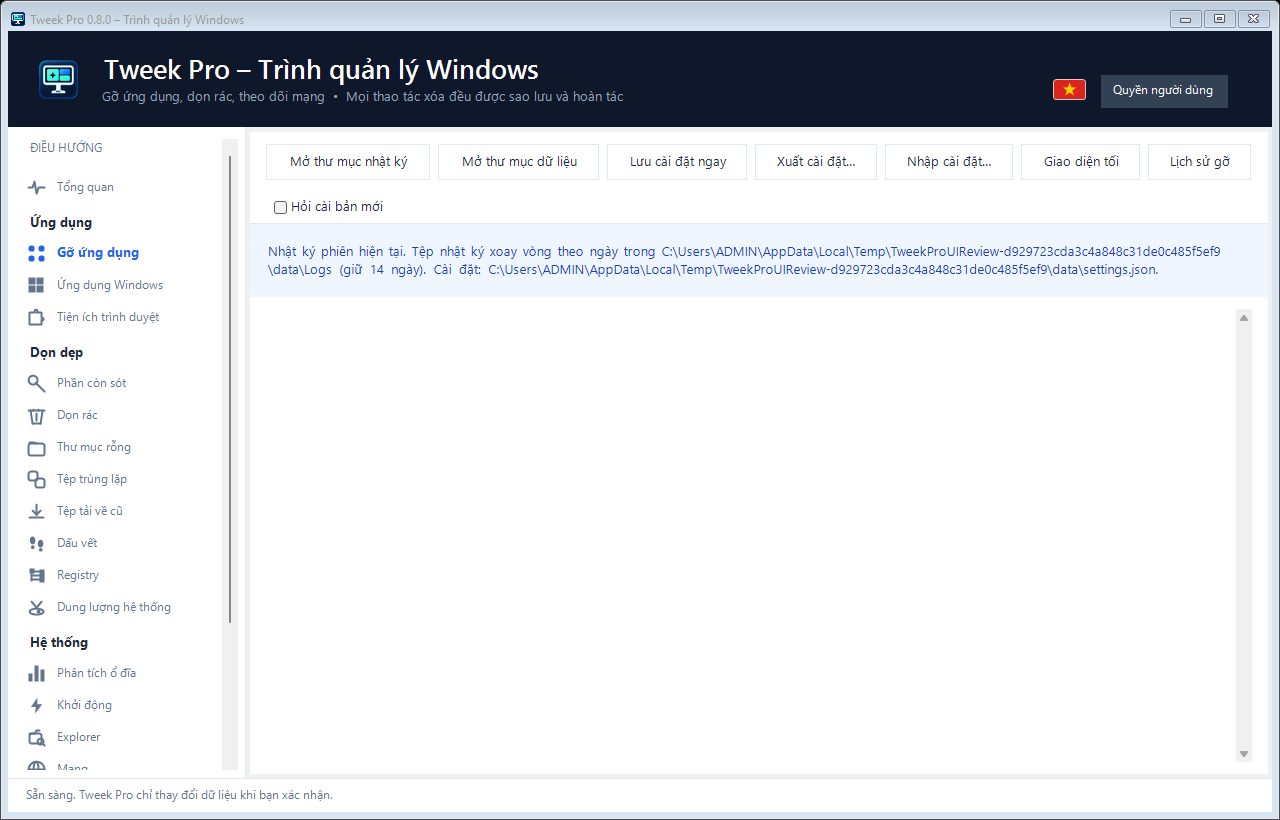
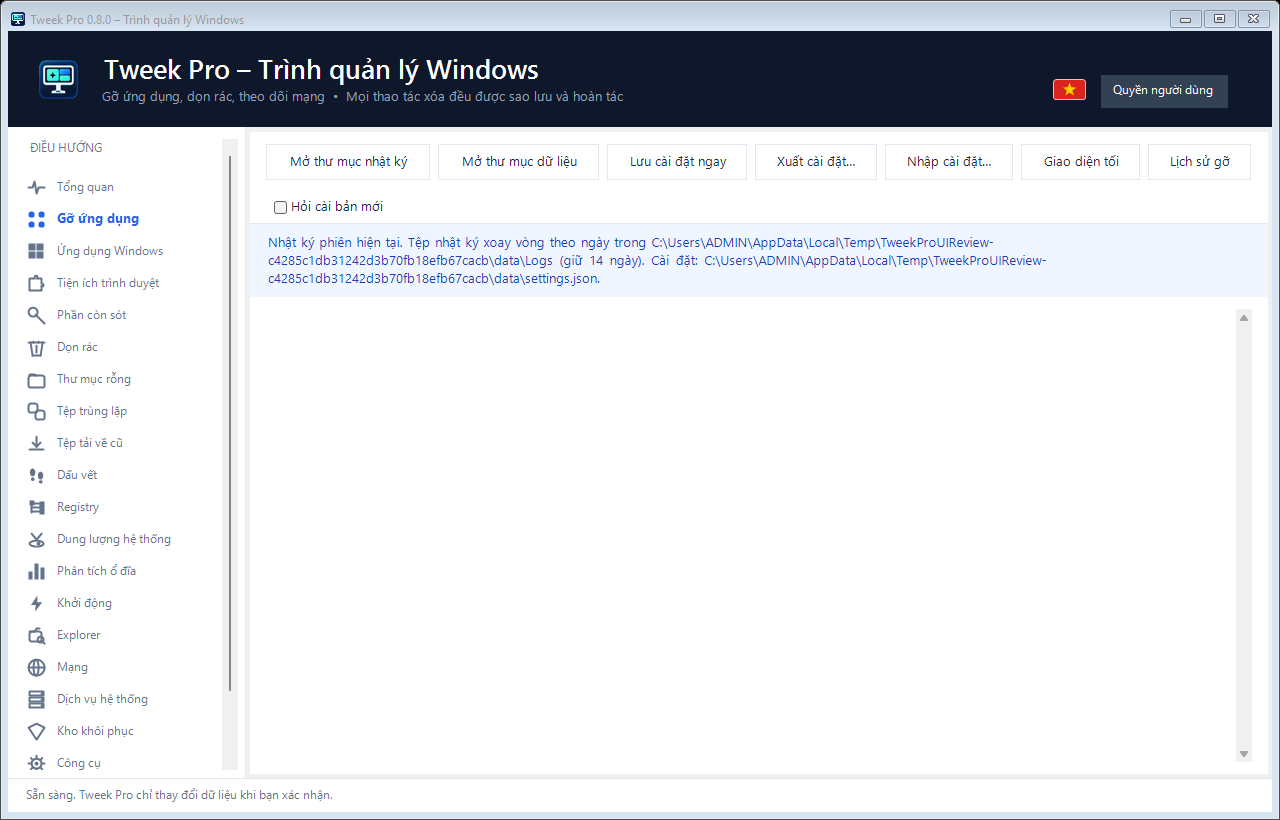
Flatten sidebar links without group headings

Changed region(s): [[0.0, 0.2439, 0.125, 0.9451], [0.1875, 0.2744, 0.9375, 0.3659]]

diff --git a/Navigation.cs b/Navigation.cs
@@ -5,13 +5,11 @@ using System.Linq;
 using System.Windows.Forms;
 
 namespace TweekPro {
- /// <summary>Keyboard-accessible grouped navigation backed by the existing tab pages.</summary>
+ /// <summary>Keyboard-accessible vertical navigation backed by the existing tab pages.</summary>
  public sealed class TabStrip:UserControl {
   readonly TabControl tabs;
   readonly FlowLayoutPanel menu=new FlowLayoutPanel();
   readonly Dictionary<TabPage,Button> links=new Dictionary<TabPage,Button>();
-  readonly Dictionary<int,FlowLayoutPanel> groups=new Dictionary<int,FlowLayoutPanel>();
-  readonly string[] names={"Ứng dụng","Dọn dẹp","Hệ thống"};
   public TabStrip(TabControl target){
    tabs=target;Dock=DockStyle.Left;Width=238;BackColor=Theme.Surface;Padding=new Padding(10,12,8,8);
    menu.Dock=DockStyle.Fill;menu.FlowDirection=FlowDirection.TopDown;menu.WrapContents=false;menu.AutoScroll=true;menu.BackColor=Theme.Surface;
@@ -32,12 +30,7 @@ namespace TweekPro {
    menu.SuspendLayout();
    var caption=new Label{Text=Core.L.T("ĐIỀU HƯỚNG"),ForeColor=Theme.Muted,Font=Theme.Small,Height=28,Margin=new Padding(10,0,0,4)};menu.Controls.Add(caption);
    foreach(TabPage p in tabs.TabPages)if(Branding.GlyphKey(p.Text)=="pulse")AddLink(menu,p);
-   for(int i=0;i<names.Length;i++){
-    var heading=new Label{Text=Core.L.T(names[i]),Height=28,TextAlign=ContentAlignment.MiddleLeft,Font=Theme.Strong,ForeColor=Theme.Text,BackColor=Theme.Surface,Margin=new Padding(0,6,0,0),Padding=new Padding(10,0,0,0)};menu.Controls.Add(heading);
-    var body=new FlowLayoutPanel{AutoSize=true,AutoSizeMode=AutoSizeMode.GrowAndShrink,FlowDirection=FlowDirection.TopDown,WrapContents=false,Margin=new Padding(0),Padding=new Padding(0)};
-    groups.Add(i,body);menu.Controls.Add(body);
-    foreach(TabPage p in tabs.TabPages)if(Group(p)==i)AddLink(body,p);
-   }
+   for(int i=0;i<3;i++)foreach(TabPage p in tabs.TabPages)if(Group(p)==i)AddLink(menu,p);
    foreach(TabPage p in tabs.TabPages)if(Group(p)<0&&Branding.GlyphKey(p.Text)!="pulse")AddLink(menu,p);
    menu.ResumeLayout(true);SelectActive();FitWidths();
   }
@@ -56,7 +49,6 @@ namespace TweekPro {
   void FitWidths(){
    int width=Math.Max(120,menu.ClientSize.Width-SystemInformation.VerticalScrollBarWidth-4);
    foreach(Control c in menu.Controls)c.Width=width;
-   foreach(var group in groups.Values)foreach(Control c in group.Controls)c.Width=width;
   }
  }
 }

diff --git a/WORKSTATE.md b/WORKSTATE.md
@@ -2,12 +2,12 @@
 
 Updated: 2026-09-27 (Asia/Bangkok).
 Objective: simplify sidebar for nontechnical users, keep Applications/Cleanup fully expanded and make uninstall easy to find.
-Status: implemented locally and opened for owner review. DO NOT PUSH or replace installed build until owner approves this iteration (explicit latest instruction). Base main/origin 2ee0c71.
+Status: flat sidebar implemented and opened for review; all three headings removed, original link order preserved. DO NOT PUSH or replace installed build until owner approves this iteration (explicit latest instruction). Base main/origin 2ee0c71.
 
-- All three sidebar groups permanently expanded; headings are labels with no collapse action. Compact rows; prominent bold blue Uninstall apps link (VI: Go ung dung with native Vietnamese text). Tab switches no longer auto-scroll sidebar away from top.
-- VI/EN translations and README pending 0.8.1 notes updated. All 22 tab screenshots regenerated locally in both languages; Vietnamese docs/screenshots; English in %TEMP%/TweekProUIReview-d929723cda3c4a848c31de0c485f5ef9/en.
-- Build: 0 warnings/errors. Full self-test attempt did not run because Windows elevation was cancelled; do not claim a new full PASS. VI/EN UI smoke PASS: 21 clickable/keyboard-focusable links, groups stay expanded through every selection, six cleanup filters correct. git diff --check passed.
-- Review app launched from workspace bin/Release/net48/TweekPro-0.8.0.exe, PID 49596, title confirmed. Existing installed 0.8.0 remains unchanged. User should review the workspace window.
+- One flat vertical list of 21 feature links with no group headings or nested panels. Uninstall apps remains bold blue directly below Overview; same order as previous review.
+- VI/EN translations and README pending 0.8.1 notes updated. All 22 tab screenshots regenerated locally in both languages; Vietnamese docs/screenshots; English in %TEMP%/TweekProUIReview-c4285c1db31242d3b70fb18efb67cacb/en.
+- Build: 0 warnings/errors. Full self-test attempt did not run because Windows elevation was cancelled; do not claim a new full PASS. VI/EN UI smoke PASS: 21 clickable/keyboard-focusable links, flat list contains exactly 21 buttons and only the navigation caption, six cleanup filters correct. git diff --check passed.
+- Review app launched from workspace bin/SidebarReview/TweekPro-0.8.0.exe, PID 46340, title confirmed. Existing installed 0.8.0 remains unchanged. User should review the workspace window.
 - Next: collect owner feedback/approval, rerun full elevated self-test before distribution, then update GitHub and latest screenshots only after approval. No new tag/release created.
 - Previous v0.8.0 Release and installed build verified in prior checkpoint; installation backup remains %LOCALAPPDATA%/TweekPro-install-backup-20260927-161501.
-- Preserve untracked .bridge/ and .cursor/. No verification commands still running; review app intentionally remains open. This local checkpoint is not a GitHub backup.
+- Preserve untracked .bridge/ and .cursor/. No verification commands still running; review app intentionally remains open. Older review PID 49596 was not closed. This local checkpoint is not a GitHub backup.

diff --git a/README.md b/README.md
@@ -54,7 +54,7 @@ Tải bản mới nhất tại **[Releases](https://github.com/tuantien0001/Twee
 
 ## Các tab
 
-Thanh bên trái gom các mục vào **Ứng dụng**, **Dọn dẹp** và **Hệ thống**. Các nhóm luôn mở sẵn, không cần bấm mở/thu; **Gỡ ứng dụng** được in đậm ở đầu nhóm Ứng dụng. Chọn mục bằng chuột hoặc phím Tab rồi Enter. Tổng quan, Kho khôi phục, Công cụ, Nhật ký và Trợ lý AI có lối vào riêng. Khi danh sách dài, cuộn thanh bên để xem các mục phía dưới.
+Thanh bên trái hiển thị các chức năng thành một danh sách dọc liên tục, không có tiêu đề nhóm hoặc nút thu gọn. **Gỡ ứng dụng** in đậm, nổi bật ngay dưới Tổng quan. Chọn mục bằng chuột hoặc phím Tab rồi Enter; cuộn thanh bên khi cửa sổ thấp.
 
 Kết quả dọn rác có bộ lọc theo trạng thái và khung đọc đầy đủ đường dẫn/lý do. **Chuyển vào Kho chưa giải phóng dung lượng**; có thể mở Kho ngay từ hộp kết quả để kiểm tra trước khi xóa vĩnh viễn.
 
@@ -254,7 +254,7 @@ Chưa bật/tắt tiện ích trình duyệt tại chỗ (chỉ gỡ). Cài bả
 
 ### 0.8.1 (chưa phát hành)
 
-- **Điều hướng dễ dùng**: hiển thị sẵn toàn bộ mục trong các nhóm Ứng dụng, Dọn dẹp và Hệ thống; bỏ nút thu gọn nhóm. Mục **Gỡ ứng dụng** in đậm, màu nổi bật; hàng gọn hơn để thấy nhiều chức năng, thanh bên không tự nhảy khi đổi tab.
+- **Điều hướng dễ dùng**: hiển thị toàn bộ chức năng theo thứ tự trong một danh sách dọc; bỏ tiêu đề nhóm và nút thu gọn. Mục **Gỡ ứng dụng** in đậm, màu nổi bật; hàng gọn hơn để thấy nhiều chức năng, thanh bên không tự nhảy khi đổi tab.
 
 ### 0.8.0 (27/09/2026)
 
